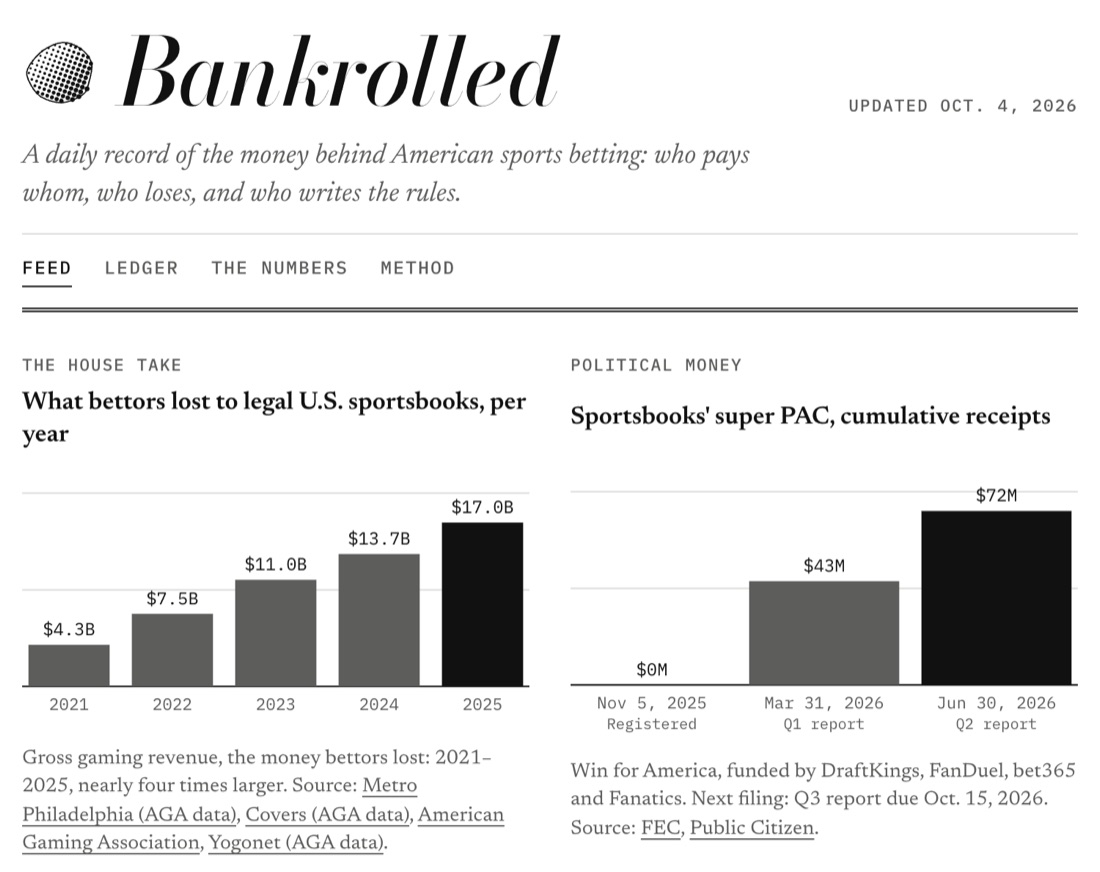
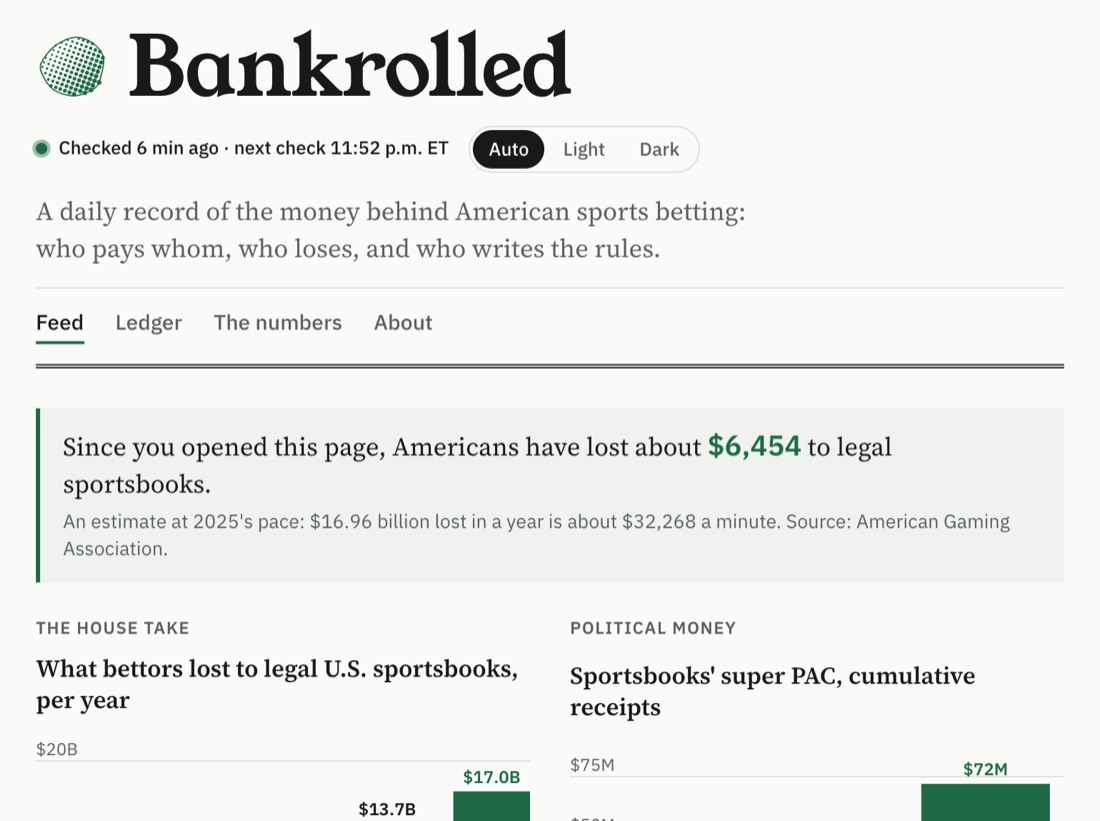
Bankrolled page: new look and screenshot, checks every two hours, live features, the why in Chris's words; even gaps around feature lists

Changed region(s): [[0.0, 0.1523, 0.9891, 1.0], [0.0309, 0.0305, 0.5255, 0.1218], [0.7727, 0.0914, 0.8345, 0.1523]]

diff --git a/projects/bankrolled/index.html b/projects/bankrolled/index.html
@@ -54,12 +54,12 @@
       <a class="btn" href="https://github.com/chrisqtruong/bankrolled" target="_blank" rel="noopener">GitHub</a>
     </div>
   </div>
-  <figure class="shot"><img src="/assets/bankrolled-top.jpg" width="1100" height="872" alt="The top of Bankrolled: the masthead, a chart of what bettors lost to legal U.S. sportsbooks each year (4.3 billion dollars in 2021 to 17 billion in 2025), and the sportsbooks' super PAC reaching 72 million dollars"></figure>
+  <figure class="shot"><img src="/assets/bankrolled-top.jpg" width="1100" height="821" alt="The top of Bankrolled: the masthead with a live status showing when it last checked for news, a running count of what Americans have lost to legal sportsbooks since the page was opened, and charts of yearly losses and the sportsbooks’ super PAC"></figure>
 </header>
 
 <dl class="facts">
   <div><dt>Role</dt><dd>Research, editorial, design &amp; build</dd></div>
-  <div><dt>Updates</dt><dd>Every morning, on its own</dd></div>
+  <div><dt>Updates</dt><dd>Every two hours, on its own</dd></div>
   <div><dt>Status</dt><dd>Live · launched Oct. 2026</dd></div>
   <div><dt>Built with</dt><dd>HTML/CSS/JS · GitHub Pages · Claude Code</dd></div>
 </dl>
@@ -69,8 +69,8 @@
     <div class="num">Why</div>
     <div>
       <h2>follow the money</h2>
-      <p>Sports betting went from illegal in most of the country to an app on everyone’s phone in a few years. Bettors lost $17 billion to legal sportsbooks in 2025, nearly four times what they lost in 2021. The companies spend over a billion a year on marketing, sign deals with leagues, teams and star athletes, and funded a $72 million super PAC ahead of the 2026 midterms.</p>
-      <p>The stories are spread across campaign filings, court dockets, regulators and earnings reports. Bankrolled puts them in one place, every day: the political money, the deals, the fines and lawsuits, and what the research says it’s costing people.</p>
+      <p>I want a fairer, more equitable world, and getting there means watching what large corporations do with their money and power: how they profit from the communities they operate in, and how they buy influence over the people who are supposed to regulate them. Sports betting is the first industry Bankrolled tracks.</p>
+      <p>It went from illegal in most of the country to an app on everyone’s phone in a few years. Bettors lost $17 billion to legal sportsbooks in 2025, nearly four times what they lost in 2021. The companies spend over a billion a year on marketing, sign deals with leagues, teams and star athletes, and funded a $72 million super PAC ahead of the 2026 midterms. Bankrolled puts the whole picture in one place: the political money, the deals, the fines and lawsuits, and what the research says it’s costing people.</p>
     </div>
   </div>
 
@@ -78,7 +78,7 @@
     <div class="num">Rules</div>
     <div>
       <h2>only what can be sourced</h2>
-      <p>Every item carries a label. <em>Confirmed</em> means a primary record backs it: a filing, a court document, a regulator’s action. <em>Reported</em> means credible but not yet verifiable. <em>Disputed</em> means the subject publicly denies it. Only confirmed items go into the ledger of who paid whom.</p>
+      <p>Bankrolled takes a clear position: this industry profits from losses that fall hardest on young men and on households that can least afford them. Because it takes a side, the facts have to be airtight. Every item carries a label. <em>Confirmed</em> means a primary record backs it: a filing, a court document, a regulator’s action. <em>Reported</em> means credible but not yet verifiable. <em>Disputed</em> means the subject publicly denies it. Only confirmed items go into the ledger of who paid whom.</p>
       <ul class="features">
         <li><b>Charged isn’t convicted.</b> People are described as charged or accused until a plea or a verdict.</li>
         <li><b>Lawsuits are allegations.</b> Sums sought are claims, not judgments.</li>
@@ -89,11 +89,17 @@
   </div>
 
   <div class="chapter reveal">
-    <div class="num">Daily</div>
+    <div class="num">Live</div>
     <div>
-      <h2>it updates itself every morning</h2>
-      <p>A scheduled run starts at 7:52 a.m. Eastern without anyone prompting it. It checks primary sources first (federal campaign filings, lobbying disclosures, the Justice Department, courts, state gaming regulators, company investor pages), then the wire, national and trade press. It reads each candidate at its source, labels it, skips duplicates, and republishes the page.</p>
-      <p>If nothing meets the bar, nothing gets posted, and that day’s report says so. Every run is committed to GitHub, so the whole history is a public archive anyone can check.</p>
+      <h2>it keeps itself current</h2>
+      <p>A scheduled research run checks every two hours, from 7:52 a.m. to 11:52 p.m. Eastern, without anyone prompting it. It looks at primary sources first (federal campaign filings, lobbying disclosures, the Justice Department, courts, state gaming regulators, company investor pages), then the wire, national and trade press. It reads each candidate at its source, labels it, skips duplicates and republishes the page. If nothing meets the bar, nothing gets posted, and that day’s report says so.</p>
+      <ul class="features">
+        <li><b>Live status.</b> The masthead shows when it last checked and when it checks next.</li>
+        <li><b>A running tab.</b> A counter of what Americans have lost to sportsbooks since you opened the page, at 2025’s pace.</li>
+        <li><b>New posts while you read.</b> An open page looks for new items every few minutes.</li>
+        <li><b>Take the data.</b> Interactive charts, filters by topic, date and status, and the ledger copies out as a spreadsheet.</li>
+      </ul>
+      <p>Every run is committed to GitHub, so the whole history is a public archive anyone can check.</p>
       <p class="fine">If gambling is causing problems for you or someone you know, the National Problem Gambling Helpline is 1-800-GAMBLER (call or text).</p>
     </div>
   </div>

diff --git a/assets/site.css b/assets/site.css
@@ -746,8 +746,8 @@
   .marker.ring path { stroke-width: 2.2; }
 
   /* ---------- project pages: one spacing rhythm. 20px between paragraphs, 32px between text and a block (cards, lists, charts) ---------- */
-  .chapter p + .roadmap, .chapter p + .decisions { margin-top: 32px; }
-  .chapter .roadmap + p, .chapter .decisions + p { margin-top: 32px; }
+  .chapter p + :is(.roadmap, .decisions, .features) { margin-top: 32px; }
+  .chapter :is(.roadmap, .decisions, .features) + p { margin-top: 32px; }
 
   /* ---------- small accessibility and polish pieces ---------- */
   :is(img, video)[width][height] { height: auto; }   /* sizes in the HTML reserve space; CSS still decides the width (a video left at its full height letterboxes inside an empty box) */
@@ -800,14 +800,14 @@
   .shot video::-webkit-media-controls-start-playback-button { display: none !important; -webkit-appearance: none; }
   .shot video::-webkit-media-controls { display: none !important; }
 
-  /* ---------- Bankrolled page: newsprint black and white, like the site itself ---------- */
-  .case-hero.bankrolled { background: #121211; color: #ededea; grid-template-columns: minmax(0, .85fr) minmax(0, 1.15fr); }
+  /* ---------- Bankrolled page: its deep green and paper white ---------- */
+  .case-hero.bankrolled { background: #1d6a45; color: #fafaf7; grid-template-columns: minmax(0, .85fr) minmax(0, 1.15fr); }
   .case-hero.bankrolled h1 { font-size: clamp(48px, 6vw, 96px); }
-  .case-hero.bankrolled .btn.solid { background: #ededea; border-color: #ededea; color: #121211; }
-  .case-hero.bankrolled .btn.solid:hover { background: #ffffff; color: #121211; }
+  .case-hero.bankrolled .btn.solid { background: #fafaf7; border-color: #fafaf7; color: #17191a; }
+  .case-hero.bankrolled .btn.solid:hover { background: #ffffff; color: #17191a; }
   .case-hero.bankrolled .btn:hover { background: rgba(255, 255, 255, .08); color: inherit; }
   .case-hero.bankrolled .shot { margin: 0; padding: clamp(28px, 4vw, 56px) clamp(20px, 3vw, 48px) 0 0; place-items: end stretch; }
-  .case-hero.bankrolled .shot img { width: 100%; border-radius: 12px 12px 0 0; box-shadow: 0 30px 70px -24px rgba(0, 0, 0, .7); }
+  .case-hero.bankrolled .shot img { width: 100%; border-radius: 12px 12px 0 0; box-shadow: 0 30px 70px -24px rgba(0, 0, 0, .55); }
   :root[data-mode="dark"] .case-hero.bankrolled { outline: 1px solid rgba(255, 255, 255, .07); outline-offset: -1px; }
   @media (max-width: 820px) {
     .case-hero.bankrolled { grid-template-columns: minmax(0, 1fr); }
